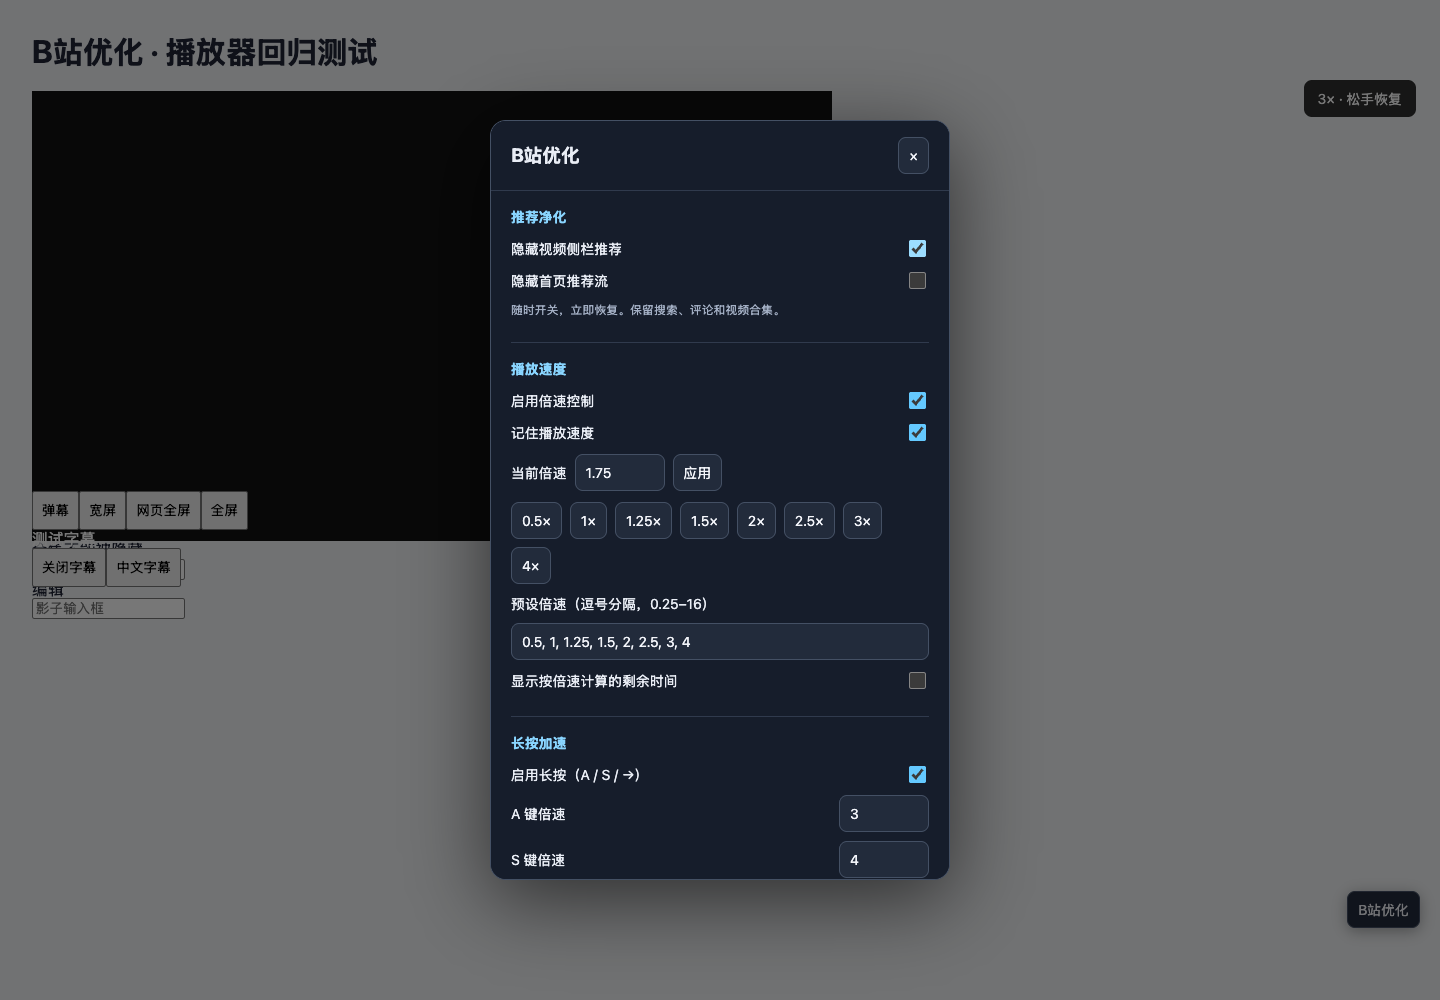
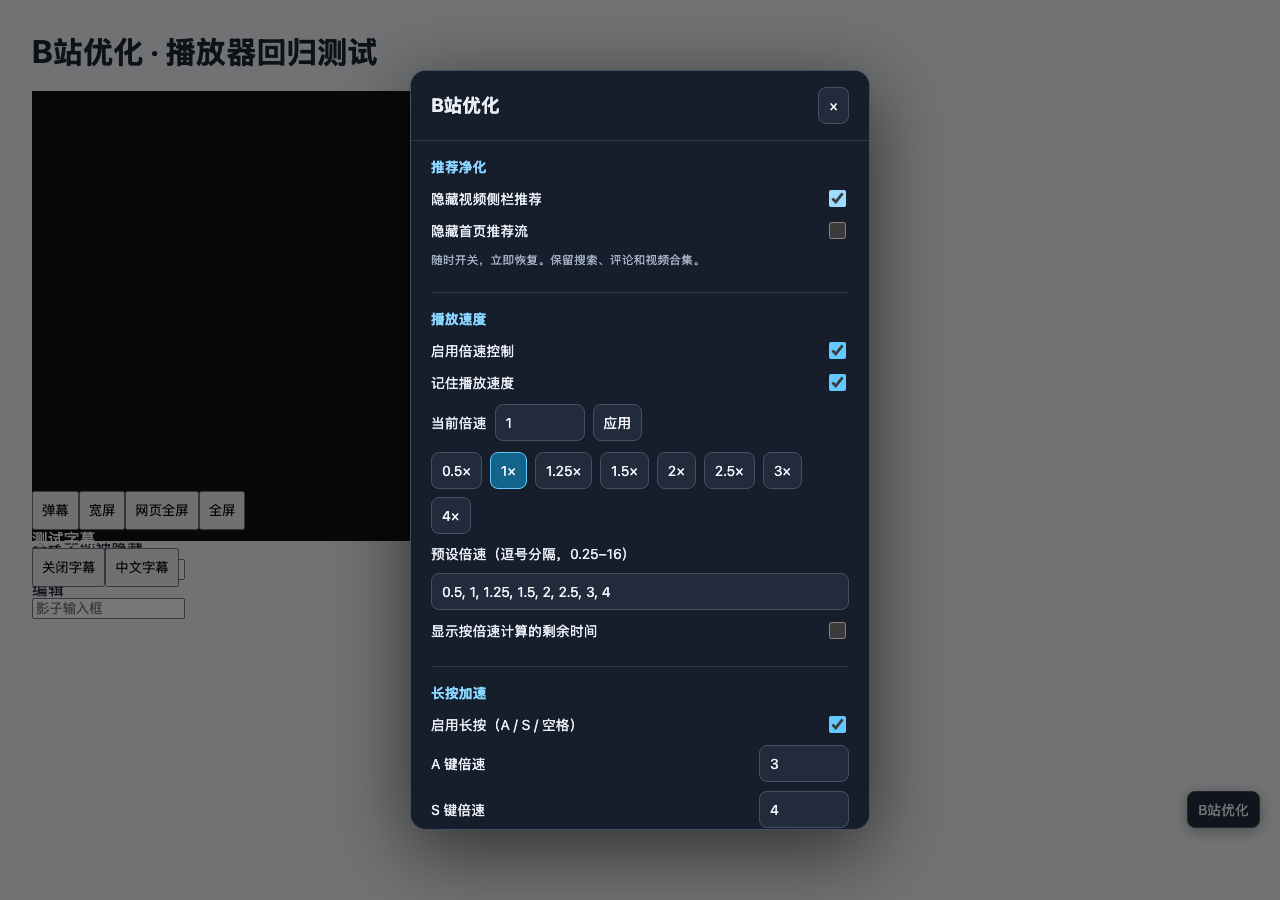
feat: use space for hold speed and map number-row presets

Changed region(s): [[0.0, 0.0311, 0.6875, 0.9644], [0.9062, 0.8711, 1.0, 0.9333], [0.9062, 0.0622, 1.0, 0.1244]]

diff --git a/bilibili-tweaks.user.js b/bilibili-tweaks.user.js
@@ -1,7 +1,7 @@
 // ==UserScript==
 // @name         B站优化 · Bilibili Tweaks
 // @namespace    https://github.com/bigbitbox/bilibili-tweaks
-// @version      1.0.2
+// @version      1.1.0
 // @description  统一管理推荐净化、记忆倍速、长按加速与播放器快捷键，所有功能可开关。
 // @author       bigbitbox
 // @license      MIT
@@ -27,7 +27,6 @@
     hold: true, shortcuts: true, numberKeys: true, showTime: false,
     defaultWide: false, copySubtitle: true, rate: 1,
     rates: [0.5, 1, 1.25, 1.5, 2, 2.5, 3, 4], holdA: 3, holdS: 4,
-    holdRight: 2, rightRelative: true,
     keys: { danmaku: 'KeyD', wide: 'KeyB', web: 'KeyG', fullscreen: 'KeyF', subtitle: 'KeyZ' },
   };
   const validRate = value => typeof value === 'number' && Number.isFinite(value) && value >= 0.25 && value <= 16;
@@ -37,7 +36,7 @@
     for (const key of Object.keys(defaults)) {
       if (typeof defaults[key] === 'boolean' && typeof raw[key] === 'boolean') result[key] = raw[key];
     }
-    for (const key of ['rate', 'holdA', 'holdS', 'holdRight']) if (validRate(raw[key])) result[key] = raw[key];
+    for (const key of ['rate', 'holdA', 'holdS']) if (validRate(raw[key])) result[key] = raw[key];
     if (Array.isArray(raw.rates) && raw.rates.length && raw.rates.length <= 30 && raw.rates.every(validRate)) {
       result.rates = [...new Set(raw.rates)].sort((a, b) => a - b);
     }
@@ -52,8 +51,10 @@
     try { GM_setValue(KEY, settings); } catch { toast('设置未能保存，请检查篡改猴存储'); }
   }
   let media = null, player = null, mediaEvents = null, wideApplied = null;
-  let baseRate = settings.rate, rightTimer = null, rightPending = false, toastTimer;
+  let baseRate = settings.rate, spaceTimer = null, spacePending = false, spaceLong = false, toastTimer;
   const held = new Map();
+  const ownedKeys = new Set();
+  const numberRates = { Digit1: 1, Digit2: 1.3, Digit3: 1.5, Digit4: 2 };
   const PLAYER = '.bpx-player-container, .bilibili-player';
   const MEDIA = 'video, bwp-video';
   const controls = {
@@ -102,16 +103,14 @@
         <label>显示按倍速计算的剩余时间<input type="checkbox" data-setting="showTime"></label>
       </section>
       <section><h3>长按加速</h3>
-        <label>启用长按（A / S / →）<input type="checkbox" data-setting="hold"></label>
+        <label>启用长按（A / S / 空格）<input type="checkbox" data-setting="hold"></label>
         <label>A 键倍速<input type="number" data-number="holdA" min="0.25" max="16" step="0.25"></label>
         <label>S 键倍速<input type="number" data-number="holdS" min="0.25" max="16" step="0.25"></label>
-        <label>右方向键倍速<input type="number" data-number="holdRight" min="0.25" max="16" step="0.25"></label>
-        <label>右方向键按当前速度的倍数加速<input type="checkbox" data-setting="rightRelative"></label>
-        <p class="muted">→ 短按前进 5 秒，长按 350ms 加速。松手或切走窗口时恢复。</p>
+        <p class="muted">空格短按播放 / 暂停，长按 350ms 固定 2×。松手或切走窗口时恢复原速；长按不改变暂停状态。右方向键只快进，不加速。</p>
       </section>
       <section><h3>快捷键与显示</h3>
         <label>启用播放器快捷键<input type="checkbox" data-setting="shortcuts"></label>
-        <label>数字键临时倍速 / Ctrl + 数字记忆倍速<input type="checkbox" data-setting="numberKeys"></label>
+        <label>主键盘 1 / 2 / 3 / 4：1× / 1.3× / 1.5× / 2×<input type="checkbox" data-setting="numberKeys"></label>
         <div id="keybindings"></div>
         <label>默认宽屏<input type="checkbox" data-setting="defaultWide"></label>
         <label>双击字幕复制<input type="checkbox" data-setting="copySubtitle"></label>
@@ -218,7 +217,7 @@
     updateTime(); return true;
   }
   function endHolds() {
-    clearTimeout(rightTimer); rightPending = false;
+    clearTimeout(spaceTimer); spacePending = false;
     if (held.size) { held.clear(); setRate(baseRate); }
   }
   function visible(el) { return el.getClientRects().length > 0 && getComputedStyle(el).visibility !== 'hidden'; }
@@ -304,25 +303,31 @@
     if (!media?.isConnected || !visible(media)) bindMedia();
     if (!media) return;
     const code = e.code;
-    if (settings.speed && settings.numberKeys && /^Digit[0-9]$/.test(code)) {
-      stop(e); if (e.repeat) return;
-      const rate = Number(code.slice(-1)) || 0.5;
-      if (e.ctrlKey) setPermanent(rate); else holdRate(code, rate);
+    if (settings.speed && settings.numberKeys && !e.ctrlKey && numberRates[code]) {
+      stop(e); ownedKeys.add(code); if (!e.repeat) setPermanent(numberRates[code]);
       return;
     }
     if (settings.speed && e.ctrlKey && ['ArrowUp', 'ArrowDown'].includes(code)) {
       stop(e); if (!e.repeat) cycle(code === 'ArrowUp' ? 1 : -1); return;
     }
     if (e.ctrlKey) return;
-    if (settings.speed && settings.hold && ['KeyA', 'KeyS', 'ArrowRight'].includes(code)) {
-      stop(e); if (e.repeat) return;
-      if (code !== 'ArrowRight') holdRate(code, code === 'KeyA' ? settings.holdA : settings.holdS);
-      else if (!rightPending) {
-        rightPending = true;
-        rightTimer = setTimeout(() => {
-          if (rightPending && media?.isConnected) holdRate(code, settings.holdRight * (settings.rightRelative ? media.playbackRate : 1));
-        }, 350);
-      }
+    if (code === 'Space' && (settings.shortcuts || (settings.speed && settings.hold))) {
+      if (e.composedPath().some(el => el instanceof Element && el.matches('button, a[href], [role="button"]'))) return;
+      stop(e); ownedKeys.add(code); if (e.repeat) return;
+      spacePending = true; spaceLong = false;
+      if (settings.speed && settings.hold) spaceTimer = setTimeout(() => {
+        if (spacePending && media?.isConnected) { spaceLong = true; holdRate(code, 2); }
+      }, 350);
+      return;
+    }
+    if (code === 'ArrowRight' && (settings.hold || settings.shortcuts)) {
+      // 只保留前进，阻止原站的右方向键长按加速监听器。
+      stop(e); ownedKeys.add(code);
+      if (Number.isFinite(media.duration)) media.currentTime = Math.min(media.duration, media.currentTime + 5);
+      return;
+    }
+    if (settings.speed && settings.hold && ['KeyA', 'KeyS'].includes(code)) {
+      stop(e); if (!e.repeat) holdRate(code, code === 'KeyA' ? settings.holdA : settings.holdS);
       return;
     }
     if (!settings.shortcuts) return;
@@ -333,14 +338,21 @@
     if (action === 'subtitle') subtitle();
     else if (action === 'cycle') cycle(1, true);
     else if (action === 'time') { settings.showTime = !settings.showTime; persist(); updateTime(); }
-    else if (action === 'play') { if (media.paused) Promise.resolve(media.play()).catch(() => toast('请先点击播放器开始播放')); else media.pause(); }
+    else if (action === 'play') togglePlayback();
     else clickControl(action);
   }, true);
+  function togglePlayback() {
+    if (!media?.isConnected) return;
+    if (media.paused) Promise.resolve(media.play()).catch(() => toast('请先点击播放器开始播放'));
+    else media.pause();
+  }
   document.addEventListener('keyup', e => {
-    // 无论焦点是否移入输入框，都必须释放已经接管的键。
-    if (e.code === 'ArrowRight' && rightPending) {
-      stop(e); clearTimeout(rightTimer); rightPending = false;
-      if (!release(e.code) && media && Number.isFinite(media.duration)) media.currentTime = Math.min(media.duration, media.currentTime + 5);
+    // 被接管的空格即使因失焦取消，也不能再触发原站 keyup 暂停。
+    if (ownedKeys.delete(e.code)) stop(e);
+    if (e.code === 'Space' && spacePending) {
+      clearTimeout(spaceTimer); spacePending = false;
+      if (spaceLong) release(e.code);
+      else if (!editable(e) && !dialog.open && !e.isComposing) togglePlayback();
     } else if (release(e.code)) stop(e);
   }, true);
   window.addEventListener('blur', endHolds);

diff --git a/bilibili-tweaks.meta.js b/bilibili-tweaks.meta.js
@@ -1,7 +1,7 @@
 // ==UserScript==
 // @name         B站优化 · Bilibili Tweaks
 // @namespace    https://github.com/bigbitbox/bilibili-tweaks
-// @version      1.0.2
+// @version      1.1.0
 // @description  统一管理推荐净化、记忆倍速、长按加速与播放器快捷键，所有功能可开关。
 // @author       bigbitbox
 // @license      MIT

diff --git a/README.md b/README.md
@@ -15,7 +15,7 @@
 | 视频侧栏推荐 | 默认隐藏，可即时恢复；保留评论、弹幕列表和视频合集 |
 | 首页推荐流 | 独立开关，默认保留 |
 | 播放速度 | 0.25–16×，自定义预设、排序去重、记忆速度 |
-| 长按加速 | A 默认 3×、S 默认 4×；→ 长按 350ms 默认当前速度的 2 倍，短按前进 5 秒 |
+| 长按加速 | A 默认 3×、S 默认 4×；空格长按 350ms 固定 2×，短按播放/暂停 |
 | 长按恢复 | 松键、切走窗口、页面隐藏、输入框获得焦点、播放器替换时恢复；多键按住时以最后一个为准 |
 | 快捷键 | 弹幕、宽屏、网页全屏、全屏、字幕；面板内可修改字母键 |
 | 剩余时间 | 根据当前倍速计算实际剩余观看时间 |
@@ -28,7 +28,8 @@
 | 按键 | 功能 |
 | --- | --- |
 | 长按 A / S | 临时 3× / 4×，可在面板修改 |
-| → | 短按前进 5 秒，长按临时加速 |
+| 空格 | 短按播放/暂停，长按固定 2×，松手恢复原速 |
+| → | 前进 5 秒，按住连续前进，不改变倍速 |
 | B / H / 小键盘 * | 宽屏（B 可修改，H 为兼容别名） |
 | G / 小键盘 − | 网页全屏 |
 | F / 小键盘 9 | 全屏 |
@@ -37,8 +38,7 @@
 | 小键盘 5 | 播放 / 暂停 |
 | 小键盘 + | 循环预设倍速 |
 | Ctrl + ↑ / ↓ | 上一档 / 下一档倍速 |
-| 长按主键盘数字 1–9 / 0 | 临时 1–9× / 0.5× |
-| Ctrl + 主键盘数字 1–9 / 0 | 设置并记忆 1–9× / 0.5× |
+| 主键盘上方 1 / 2 / 3 / 4 | 直接设置并记忆 1× / 1.3× / 1.5× / 2× |
 | F2 | 显示 / 隐藏剩余时间 |
 
 输入框、可编辑评论、Shadow DOM 输入框、输入法组合输入以及设置面板中不会触发播放器快捷键。保留浏览器的 Cmd、Alt、Shift 组合键。原站的其他键照常使用。

diff --git a/CHANGELOG.md b/CHANGELOG.md
@@ -1,5 +1,12 @@
 # 更新记录
 
+## 1.1.0
+
+- 空格短按播放/暂停，长按固定 2×，松手恢复原速。
+- 取消右方向键长按加速，保留快进。
+- 主键盘上方 1/2/3/4 直接切换并记忆 1×/1.3×/1.5×/2×。
+- 移除原数字临时倍速和右方向键倍速设置。
+
 ## 1.0.2
 
 - 使用实站的 `data-screen` 判断宽屏，避免启用默认宽屏时把已经宽屏的视频切回普通模式。
